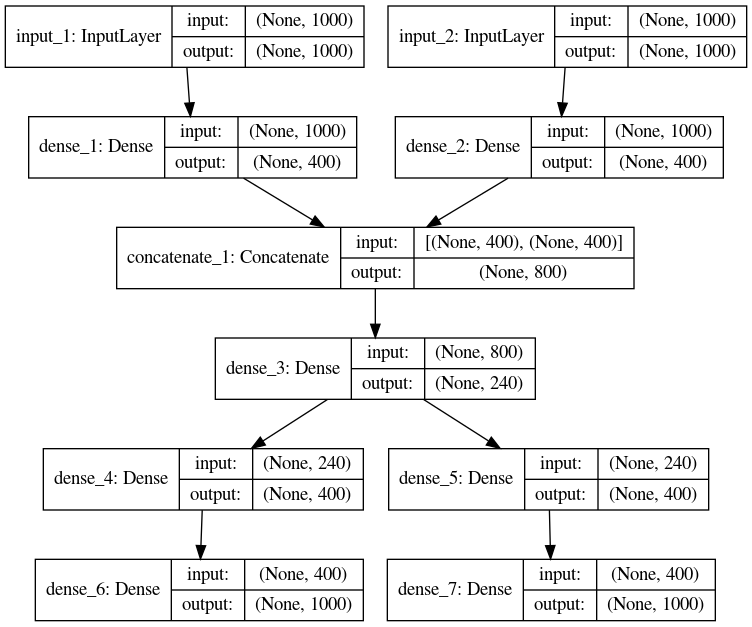
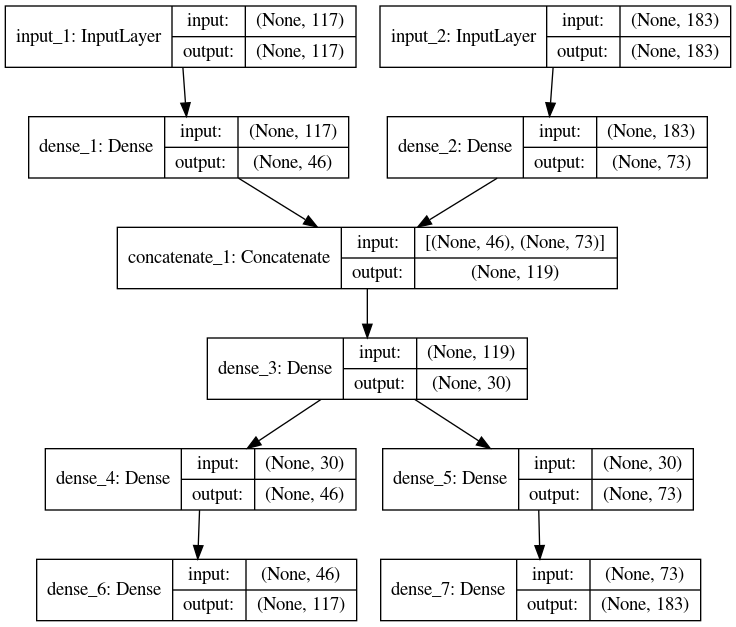
debug

diff --git a/src/utils/io.py b/src/utils/io.py
@@ -354,12 +354,12 @@ def load_aligned_features(verbose=False):
 
     if os.path.isfile(output_dir['test_data_A']) and os.path.isfile(output_dir['test_data_V']):
         print("\nprocessed files exist, starting loading ...")
-        X_train_A = pd.read_csv(output_dir['train_data_A']) 
-        X_dev_A = pd.read_csv(output_dir['dev_data_A']) 
-        X_test_A = pd.read_csv(output_dir['test_data_A'])
-        X_train_V = pd.read_csv(output_dir['train_data_V'], low_memory=False) 
-        X_dev_V = pd.read_csv(output_dir['dev_data_V'], low_memory=False) 
-        X_test_V = pd.read_csv(output_dir['test_data_V'], low_memory=False)
+        X_train_A = pd.read_csv(output_dir['train_data_A'], header=None) 
+        X_dev_A = pd.read_csv(output_dir['dev_data_A'], header=None) 
+        X_test_A = pd.read_csv(output_dir['test_data_A'], header=None)
+        X_train_V = pd.read_csv(output_dir['train_data_V'], header=None, low_memory=False) 
+        X_dev_V = pd.read_csv(output_dir['dev_data_V'], header=None, low_memory=False) 
+        X_test_V = pd.read_csv(output_dir['test_data_V'], header=None, low_memory=False)
         y_train = pd.read_csv(output_dir['train_label'], header=None) 
         inst_train = pd.read_csv(output_dir['train_inst'], header=None) 
         y_dev = pd.read_csv(output_dir['dev_label'], header=None) 
@@ -405,8 +405,8 @@ def load_aligned_features(verbose=False):
 
             for i in range(length[partition]):
                 filename = get_sample(partition, (i+1)) + '.csv'
-                A_feature = pd.read_csv(os.path.join(acoustic_dir, filename), header=None, low_memory=False)
-                V_feature = pd.read_csv(os.path.join(visual_dir, filename), header=None, low_memory=False)
+                A_feature = pd.read_csv(os.path.join(acoustic_dir, filename), low_memory=False)
+                V_feature = pd.read_csv(os.path.join(visual_dir, filename), low_memory=False)
                 A_t, _ = A_feature.shape
                 V_t, _ = V_feature.shape
                 assert A_t == V_t

diff --git a/src/model/autoencoder_bimodal.py b/src/model/autoencoder_bimodal.py
@@ -38,7 +38,7 @@ class AutoEncoderBimodal(AutoEncoder):
                         activation='relu')(input_data_V)
 
         shared = Concatenate(axis=1)([encoded_A, encoded_V])
-        encoded = Dense(int((self.dimension_A + self.dimension_V) * self.hidden_ratio / 2), 
+        encoded = Dense(int((self.dimension_A + self.dimension_V) * self.hidden_ratio / 4), 
                         activation='relu',
                         activity_regularizer=regularizers.l1(10e-5))(shared)
 
